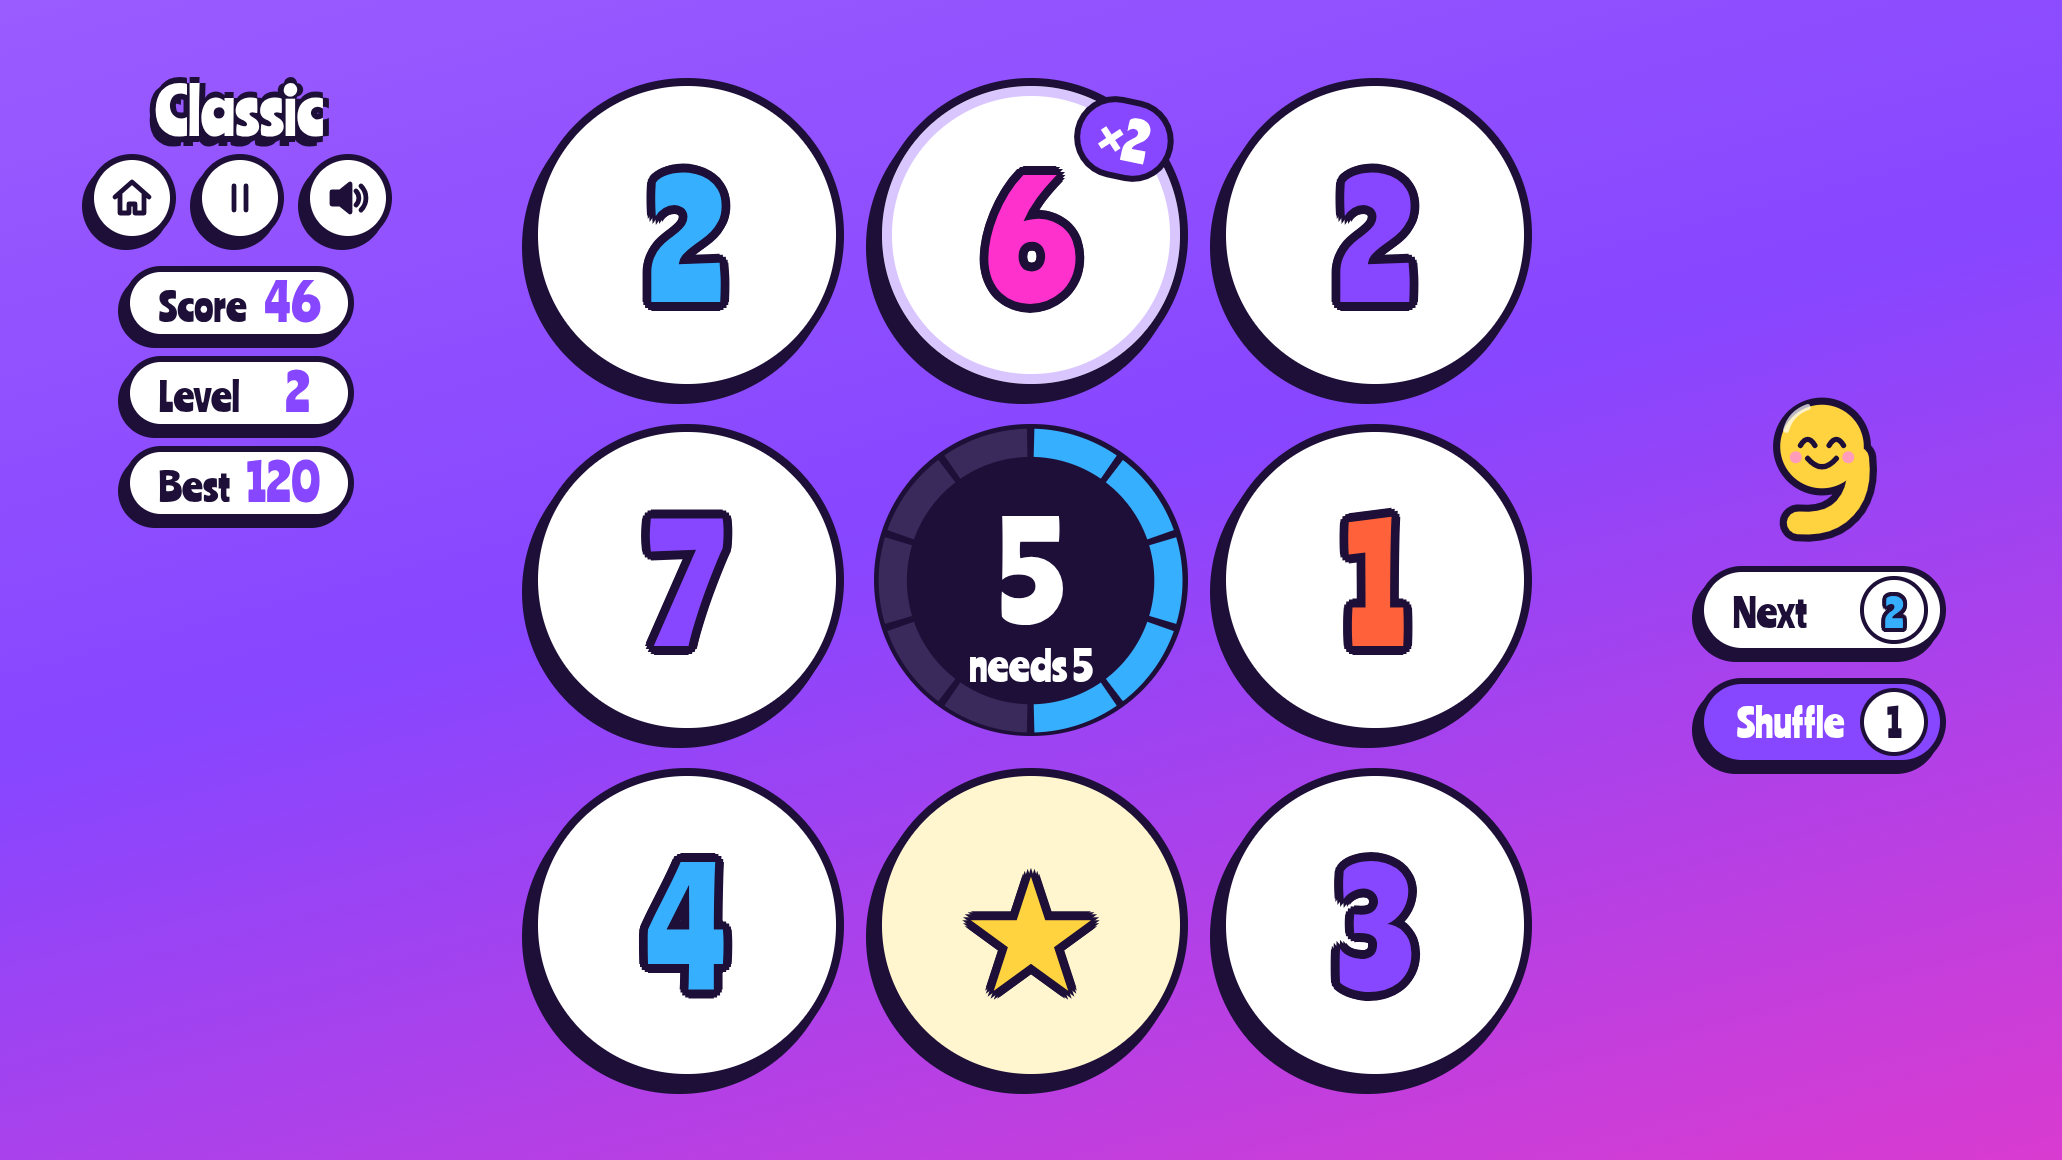
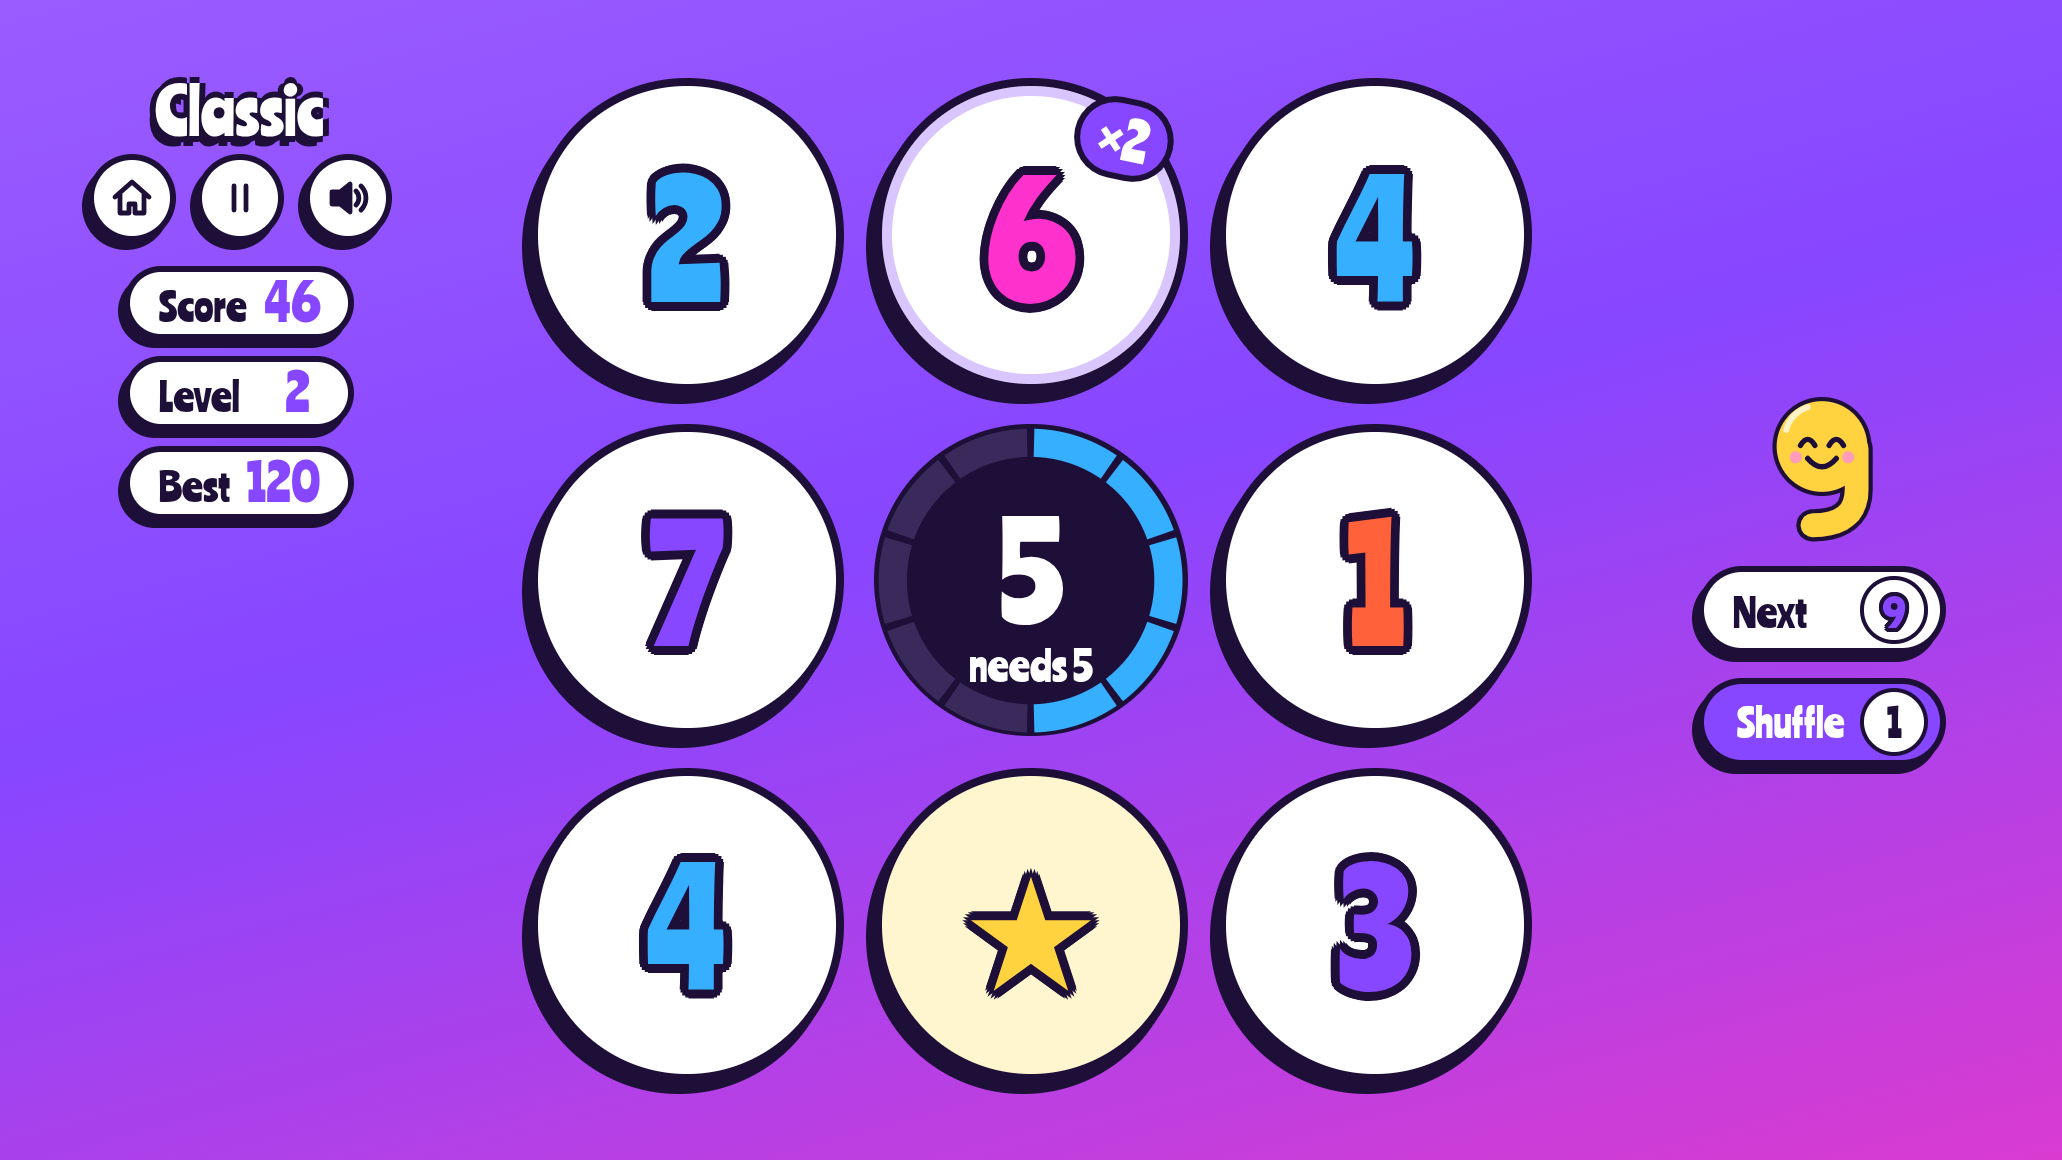
Redraw Nine as one seamless 9 and tidy the keyboard hints
- Nine: one unbroken outline, stem drops straight down the right side
  and curls left at the bottom, so it reads as a 9 at any size
- Thumbnail and screenshots 1-2 regenerated with the new Nine
- Help sheet: each key stays with its action; hints hidden on touch

diff --git a/mascot.js b/mascot.js
@@ -4,14 +4,18 @@
 
 const mascot = (() => {
     const INK = '#1d0f38'
-    const TAIL = 'M80 54 C84 90 64 111 30 108'
+    // the stem drops straight down the loop's right side, then curls left at the bottom
+    const TAIL = 'M79 46 L79 80 Q79 110 42 110'
 
     const svg = () => `
 <svg class="mascot-art" viewBox="0 0 100 124" aria-hidden="true">
     <g class="m-body">
-        <path d="${TAIL}" fill="none" stroke="${INK}" stroke-width="31" stroke-linecap="round" />
-        <circle cx="50" cy="44" r="38" fill="var(--m-fill)" stroke="${INK}" stroke-width="6" />
-        <path d="${TAIL}" fill="none" stroke="var(--m-fill)" stroke-width="19" stroke-linecap="round" />
+        <!-- one silhouette: all the ink first, then all the gold on top, so the outline
+             runs unbroken around the loop and the stem with no seam where they meet -->
+        <circle cx="50" cy="44" r="41.5" fill="${INK}" />
+        <path d="${TAIL}" fill="none" stroke="${INK}" stroke-width="27" stroke-linecap="round" stroke-linejoin="round" />
+        <circle cx="50" cy="44" r="38" fill="var(--m-fill)" />
+        <path d="${TAIL}" fill="none" stroke="var(--m-fill)" stroke-width="20" stroke-linecap="round" stroke-linejoin="round" />
         <path d="M20 30 Q24 16 38 11" fill="none" stroke="#fff" stroke-width="5" stroke-linecap="round" opacity="0.7" />
     </g>
     <g class="m-face" fill="${INK}" stroke="${INK}" stroke-linecap="round" stroke-linejoin="round">

diff --git a/promo/thumbnail.html b/promo/thumbnail.html
@@ -39,10 +39,10 @@
         /* Nine cheering in the corner: the face of the game */
         .thumb-mascot {
             position: absolute;
-            left: 18px;
-            bottom: -6px;
-            width: 230px;
-            height: 285px;
+            left: 22px;
+            bottom: 26px;
+            width: 214px;
+            height: 266px;
             z-index: 5;
             transform: rotate(-8deg);
             filter: drop-shadow(-10px 14px 0 var(--ink));
@@ -58,7 +58,7 @@
     <script>
         // same ring drawing as the game: 9 segments, 6 filled by the tiles already played
         const board = document.getElementById('board')
-        const values = [[5, '#37afff'], ['★', '#ffd23f', 'is-wild'], [7, '#8746ff'], [1, '#ff31cc'], null, [4, '#37afff'], [8, '#ff623a'], [6, '#8746ff', 'is-double'], [3, '#37afff']]
+        const values = [[5, '#37afff'], ['★', '#ffd23f', 'is-wild'], [7, '#8746ff'], [1, '#ff31cc'], null, [4, '#37afff'], ['', '#ff623a'], [6, '#8746ff', 'is-double'], [3, '#37afff']]
         for (const v of values) {
             if (!v) {
                 const well = document.createElement('div')

diff --git a/index.html b/index.html
@@ -207,7 +207,13 @@
                 <p><strong>Daily, Classic, 60 seconds.</strong> The same board for everyone each day; an endless game where the target keeps growing; a race against the clock.</p>
             </li>
         </ul>
-        <p class="keys">Keys: <kbd>Tab</kbd> + <kbd>Enter</kbd> play a tile, <kbd>S</kbd> shuffle, <kbd>B</kbd> bank, <kbd>M</kbd> sound, <kbd>Esc</kbd> pause.</p>
+        <ul class="keys" aria-label="Keyboard">
+            <li><kbd>Tab</kbd> + <kbd>Enter</kbd> play a tile</li>
+            <li><kbd>S</kbd> shuffle</li>
+            <li><kbd>B</kbd> bank</li>
+            <li><kbd>M</kbd> sound</li>
+            <li><kbd>Esc</kbd> pause</li>
+        </ul>
         <div class="sheet-actions">
             <button class="btn" id="help-close" type="button">Resume</button>
             <button class="btn btn-quiet" id="help-home" type="button" hidden>Home</button>

diff --git a/styles.css b/styles.css
@@ -972,7 +972,23 @@ body.is-ad .game { pointer-events: none; }
 .mini-tile { --o: 2px; color: var(--sky); }
 .mini-tile.is-next { color: var(--magenta); }
 
-.keys { margin: 0 0 20px; font-size: 0.9rem; color: var(--muted); line-height: 1.8; }
+/* keyboard hints: each key stays with its action; hidden where there is no keyboard */
+.keys {
+    display: flex;
+    flex-wrap: wrap;
+    justify-content: center;
+    gap: 8px 16px;
+    margin: 0 0 20px;
+    padding: 0;
+    list-style: none;
+    font-size: 0.9rem;
+    font-weight: 700;
+    color: var(--muted);
+}
+.keys li { white-space: nowrap; }
+@media (hover: none) and (pointer: coarse) {
+    .keys { display: none; }
+}
 
 kbd {
     font: inherit;
